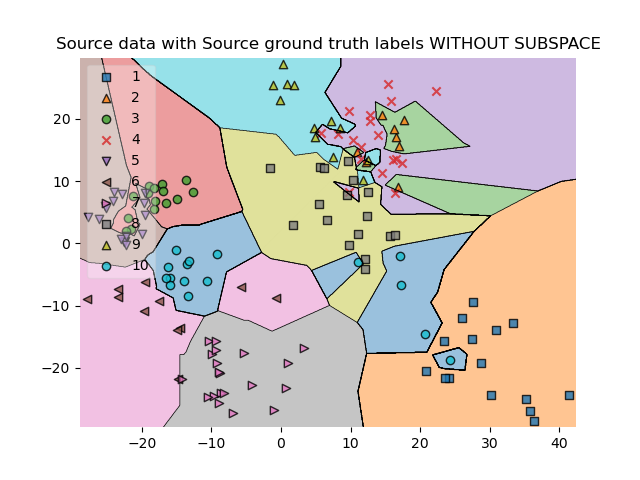
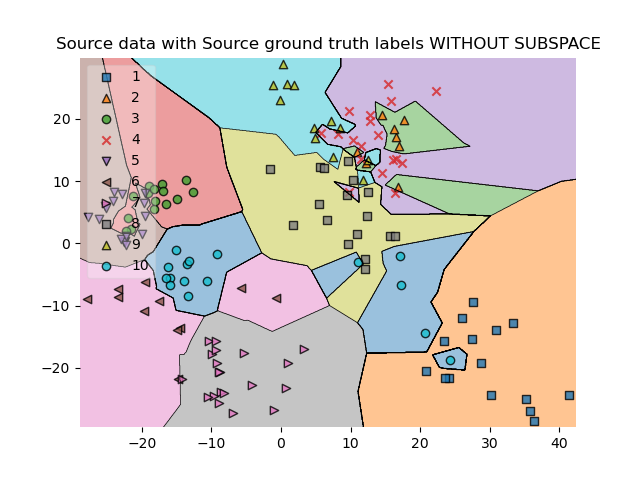
Updated the scatter plot func

diff --git a/subspace_alignment.py b/subspace_alignment.py
@@ -16,6 +16,7 @@ def scatter_plot(df_source, x, y):
             row_ix = np.where(y == class_value)
             # create scatter of these samples
             plt.scatter(x[row_ix, 0], x[row_ix, 1])
+            plt.legend([l for l in range(1,11)])
         
 class subspace:
     def __init__(self,dataset,S,T,d,class_kl, plot = False):
@@ -89,24 +90,20 @@ class subspace:
             
         if self.plot == True:
             # create scatter plot for Source dataset after PCA before SA
-            labels = [i for i in range(1, 11)]
             scatter_plot(self.S, sa_pca, y_S)
             plt.title('Source dataset after PCA before SA')
-            plt.legend(labels)
             plt.savefig('output_plots/sa/S_data_(PCA + SA).png')
             plt.close()
 
             # create scatter plot for Target dataset after PCA
             scatter_plot(self.S, st, y_T)
             plt.title('Target dataset after PCA')
-            plt.legend(labels)
             plt.savefig('output_plots/sa/T_data_(PCA).png')
             plt.close()
 
             # create scatter plot for Subspace aligned dataset
             scatter_plot(self.S, sa, y_S)
             plt.title('Subspace Aligned Data')
-            plt.legend(labels)
             plt.savefig('output_plots/sa/SA_aligned_data.png')
             plt.close()
         
@@ -171,17 +168,15 @@ def knn(dataset,S,T,seed, plot = False):
         # print('pca_x_s',x_S_pca.shape)
 
         # create scatter plot for Source dataset after PCA supervised learning case
-        labels = [i for i in range(1, 11)]
+        
         scatter_plot(S, x_S_pca, y_S)
         plt.title('Source dataset after PCA in SL')
-        plt.legend(labels)
         plt.savefig('output_plots/w_o_sa/S_data_(PCA+Classifier).png')
         plt.close()
 
         # create scatter plot for Target dataset after PCA
         scatter_plot(T, x_T_pca, y_T)
         plt.title('Target dataset after PCA in SL')
-        plt.legend(labels)
         plt.savefig('output_plots/w_o_sa/T_data_(PCA+Classifier).png')
         plt.close()
     
